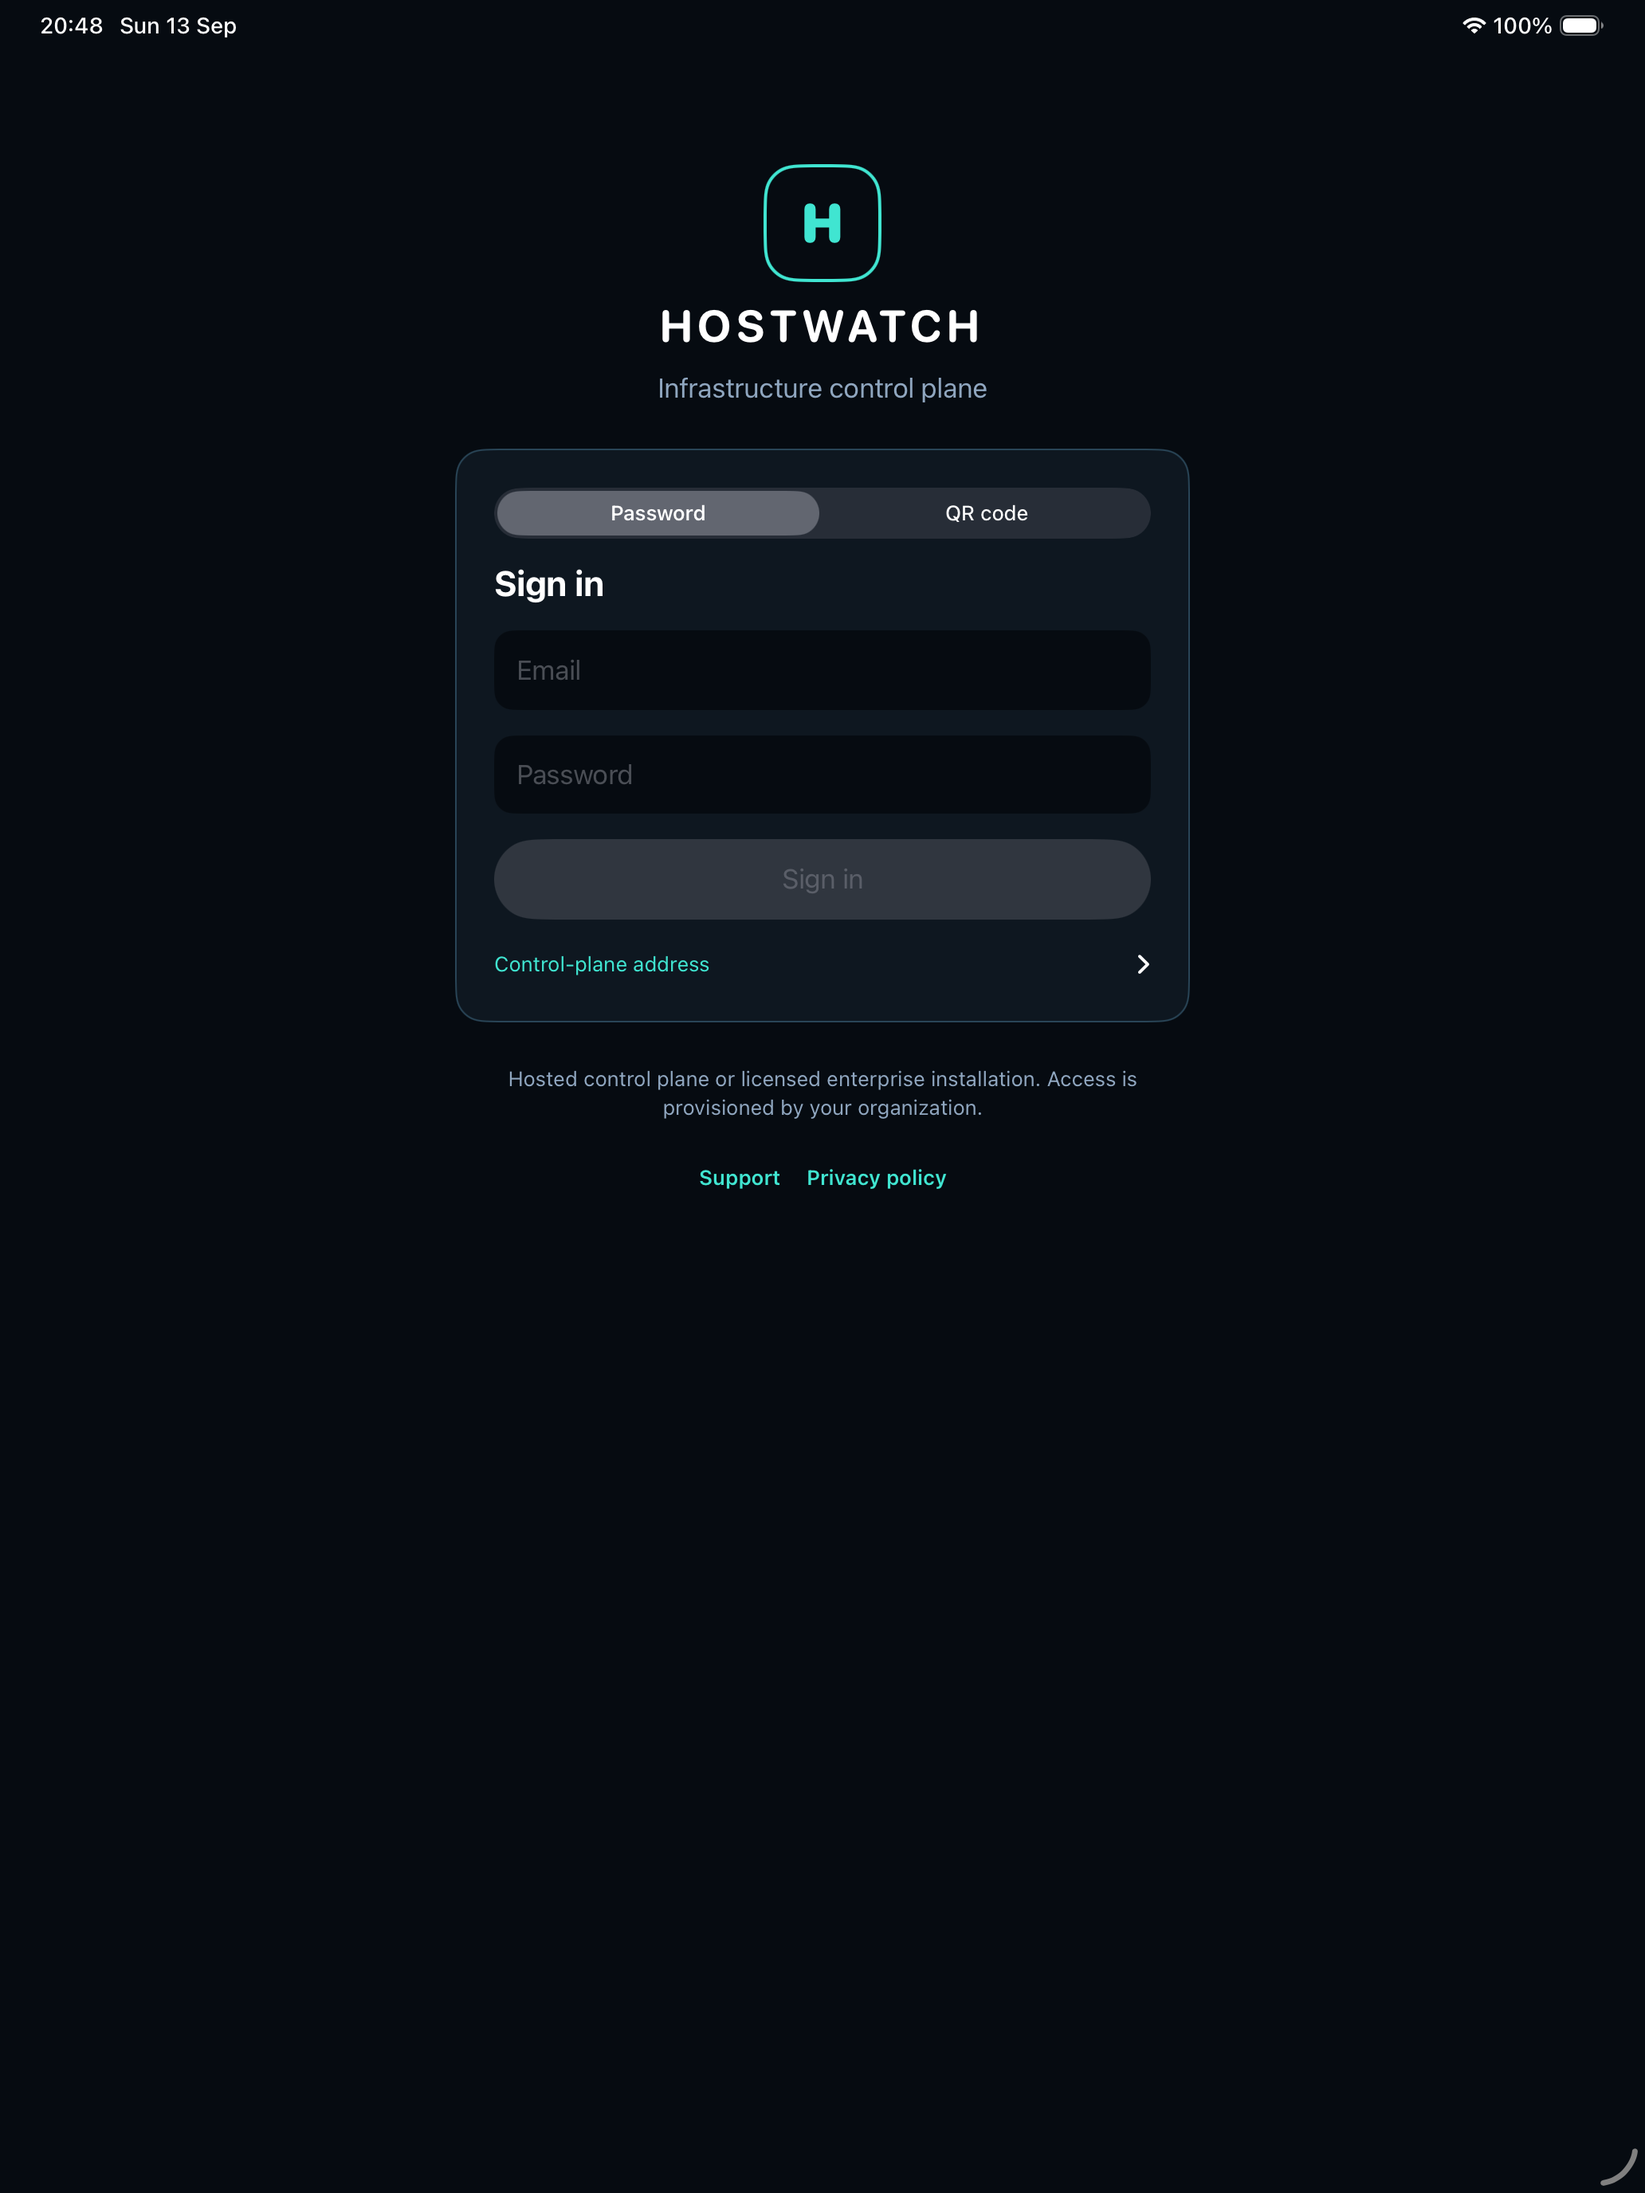
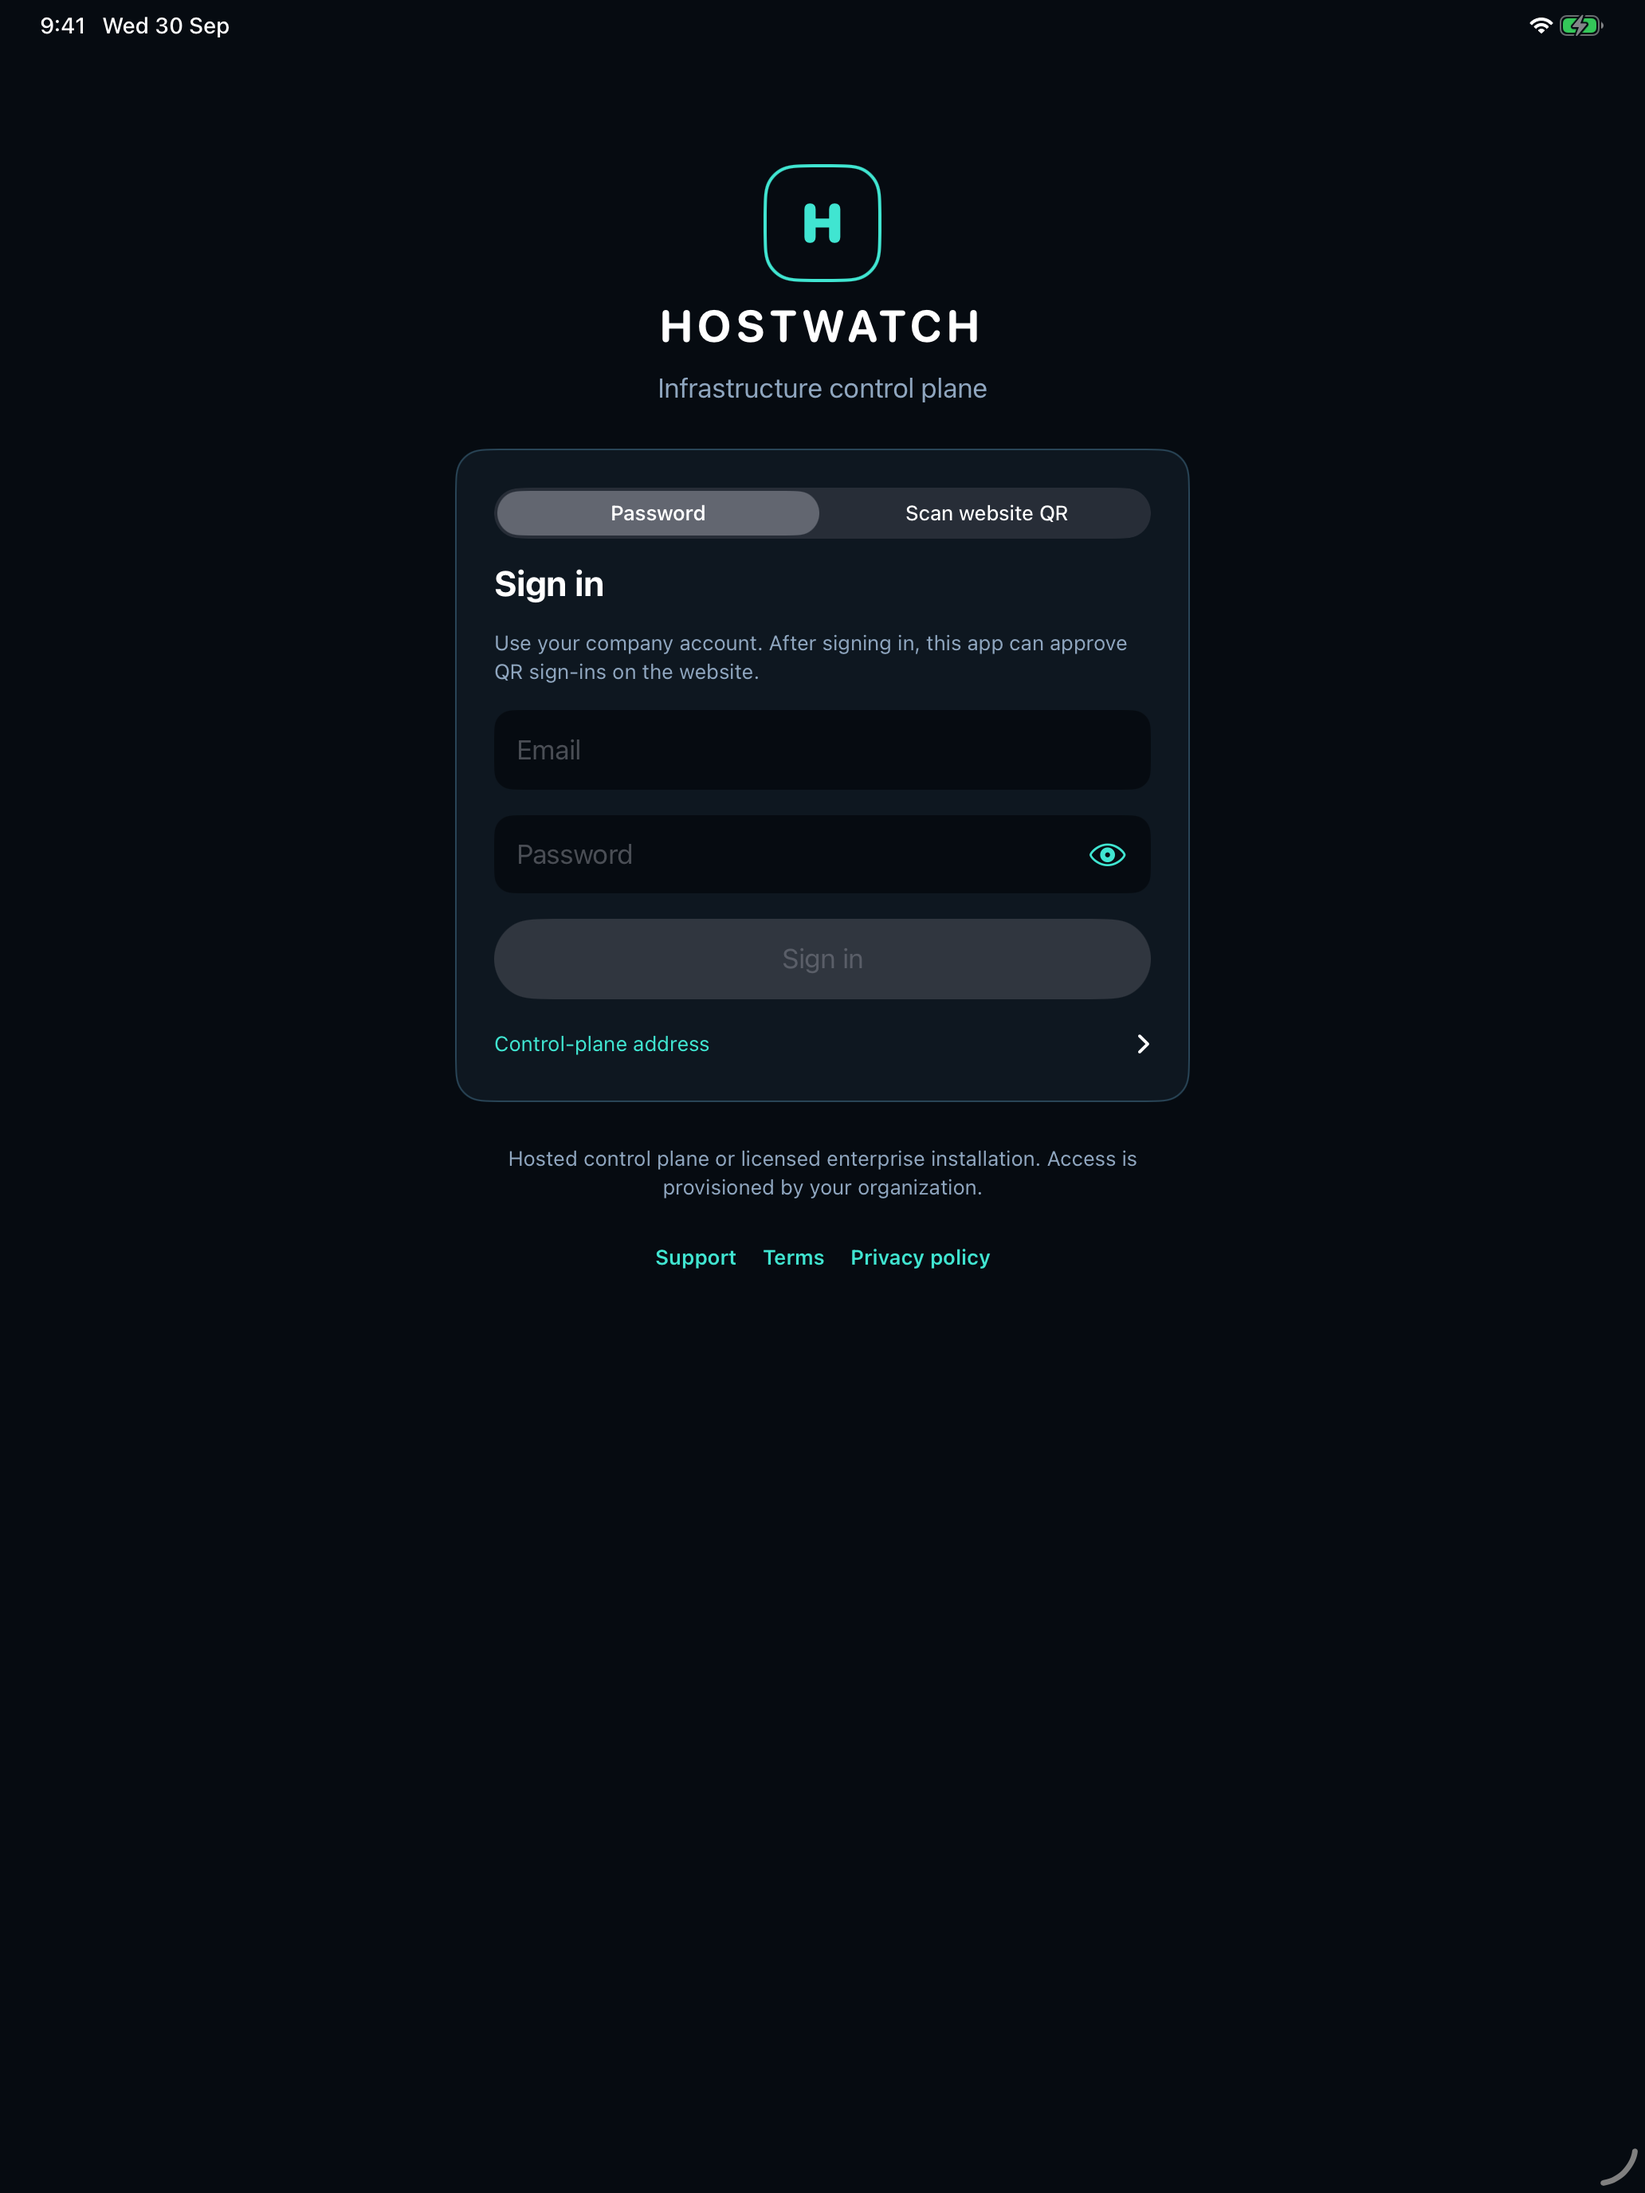
Declare Apple system crypto exemption for TestFlight

diff --git a/README.md b/README.md
@@ -2,13 +2,13 @@
 
 Native SwiftUI control-plane client for Hostwatch. The iPhone and iPad app is intended for **public App Store distribution**, while access to a control plane is provisioned by an organization. It uses the same signed-in session and REST API as the web application. There is no public demo or registration flow.
 
-**Version 1.0.7 (11):** fixes Overview loading when a site has no containers and makes incompatible API fields identifiable in error messages. It also includes the native SSL / TLS view for local certificate files, origin and public HTTPS, Certbot schedule status, and owner-only renewal checks. The node performs renewal; no certificate private key is sent to the app. See [submission materials and release checklist](docs/APP_STORE.md) for the current TestFlight and App Store status.
+**Version 1.0.7 (12):** fixes Overview loading when a site has no containers and makes incompatible API fields identifiable in error messages. It also includes the native SSL / TLS view for local certificate files, origin and public HTTPS, Certbot schedule status, and owner-only renewal checks. The node performs renewal; no certificate private key is sent to the app. See [submission materials and release checklist](docs/APP_STORE.md) for the current TestFlight and App Store status.
 
 ## Install and first setup
 
 The iOS beta is distributed by TestFlight invitation. Request access from your organization administrator or [Hostwatch support](mailto:serhii.ziborov@gmail.com?subject=Hostwatch%20iOS%20TestFlight). There is no public download link yet.
 
-1. Install Apple's TestFlight app on the iPhone or iPad, open the invitation sent to your Apple Account, then accept and install Hostwatch.
+1. On an iPhone or iPad running iOS/iPadOS 16 or later, install [Apple's TestFlight app](https://apps.apple.com/app/testflight/id899247664), open the invitation sent to your Apple Account, then accept and install Hostwatch.
 2. On the Hostwatch sign-in screen, leave the hosted address in place or expand **Control-plane address** and enter the HTTPS address supplied by your administrator.
 3. Sign in with your organization email and password, followed by an authenticator code if requested. Alternatively, choose **Scan website QR** and scan the device sign-in code from an already authenticated website session under **Organization → Account security → Sign in on iPhone or iPad**.
 4. Select a node on **Overview** and pull down to refresh. Traffic, Database and Runtime use the selected node and your account permissions.
@@ -41,7 +41,7 @@ The app supports the hosted control plane and licensed enterprise installations.
 
 On iPhone or iPad, sign in by scanning the one-time QR shown in **Organization → Account security → Sign in on iPhone or iPad** on an already signed-in Hostwatch website. Compare the six-digit number on both screens and approve on the website. The QR expires after two minutes and can only sign in the device that claimed it. QR links use the registered `hostwatch://` scheme to open the installed app from the system camera; the app validates the control-plane origin. Release signing also declares the hosted universal-link domain. Password and authenticator-code sign-in remain available. **More → Account security** lets an account enroll, replace, or disable its authenticator and approve another device's website sign-in with the camera or a short manual pairing code. That approval asks for Face ID or the device passcode.
 
-The minimum deployment target is iOS 15, so the same build runs on current iPhones and older iPads such as iPad mini 4 (15.8). The four primary areas are Overview, Traffic, Database and Runtime; only the selected tab stays mounted. Workloads and less frequent controls are under **More**. iPad keeps a sidebar. Links to a request destination or external advisory open in the system browser, outside the app. Live refresh loads only the visible page: topology pulses host/site snapshots every 3s and the heavier inventory every 30s; other pages refresh every 8s without re-downloading request/error buffers.
+The app's minimum deployment target is iOS 15, but Apple's TestFlight app currently requires iOS/iPadOS 16 or later. The four primary areas are Overview, Traffic, Database and Runtime; only the selected tab stays mounted. Workloads and less frequent controls are under **More**. iPad keeps a sidebar. Links to a request destination or external advisory open in the system browser, outside the app. Live refresh loads only the visible page: topology pulses host/site snapshots every 3s and the heavier inventory every 30s; other pages refresh every 8s without re-downloading request/error buffers.
 
 On launch, a native Hostwatch splash stays visible while the saved server session is checked. After the first successful sign-in the session cookies are stored in the device keychain so they survive app death; **Face ID / Touch ID / passcode** (on by default when the device can evaluate it) unlocks that session on the next launch and after the app goes to the background. The eight-hour access cookie is automatically renewed with a rotating device credential valid for up to 90 days of inactivity. The controller stores only its hash; Keychain holds the actual credential. Password or two-factor changes revoke the saved authorization. Signing out removes and revokes the saved session. This is an on-device unlock for a stored control-plane session, not a substitute for account two-factor policy. Disk scans show progress and errors, and directory drilldown preserves the host summary while loading child entries.
 
@@ -77,9 +77,9 @@ For App Store review and users, see the [privacy policy](PRIVACY.md) and [suppor
 
 ## Screenshots
 
-<img src="docs/screenshots/iphone-sign-in.png" width="275" alt="Hostwatch 1.0.7 sign-in with Password and Scan website QR options" /> <img src="docs/screenshots/iphone-overview-sample.png" width="275" alt="Hostwatch 1.0.7 Overview with an explicit SAMPLE DATA banner" />
+<img src="docs/screenshots/iphone-sign-in.png" width="275" alt="Hostwatch 1.0.7 sign-in with Password and Scan website QR options" /> <img src="docs/screenshots/iphone-overview-sample.png" width="275" alt="Hostwatch 1.0.7 Overview with an explicit SAMPLE DATA banner" /> <img src="docs/screenshots/ipad-sign-in.png" width="390" alt="Hostwatch 1.0.7 sign-in on iPad" />
 
-Simulator captures of version 1.0.7 (11). The Overview image contains fabricated development fixtures and visibly says **SAMPLE DATA · DEBUG BUILD**. The sign-in image contains no credentials.
+Simulator captures of the version 1.0.7 code. The Overview image contains fabricated development fixtures and visibly says **SAMPLE DATA · DEBUG BUILD**. The sign-in images contain no credentials.
 
 Only captures from an authenticated shipping build should be uploaded to App Store Connect. Development fixture images under `docs/screenshots/` explicitly show SAMPLE DATA and are not current server telemetry or Store assets. See [capture checklist](docs/APP_STORE.md#screenshots); the listing must include both supported device families.
 

diff --git a/docs/APP_STORE.md b/docs/APP_STORE.md
@@ -1,4 +1,4 @@
-# App Store submission — Hostwatch 1.0.7 (11)
+# App Store submission — Hostwatch 1.0.7 (12)
 
 Updated 2026-09-30. These are submission materials, not a claim that Apple approved or published the app.
 
@@ -42,7 +42,7 @@ Organization owners provision accounts. The app has no public sign-up or third-p
 
 The bundled `PrivacyInfo.xcprivacy` declares the UserDefaults reason CA92.1 and account/operational data used for app functionality, linked to the organization account, without tracking. Reconcile the final App Store privacy questionnaire with the live control plane, including user-entered content, log data and network addresses. No location permission is requested; approximate visitor geography belongs to server telemetry. Camera permission is only for QR scanning. Face ID is evaluated by LocalAuthentication; biometric templates never reach Hostwatch.
 
-Confirm export-compliance answers against the actual use of system HTTPS and Keychain before uploading; do not invent an encryption exemption declaration. The app's source-available commercial LICENSE is separate from Apple's user EULA.
+The iOS source uses Apple's URLSession for HTTPS, Security framework Keychain, and CryptoKit AES-GCM to create encrypted environment-share links. It contains no third-party or proprietary cryptography. Apple's [export compliance reference](https://developer.apple.com/help/app-store-connect/reference/export-compliance-documentation-for-encryption/) says encryption limited to Apple's operating system requires no documentation in App Store Connect. Build 12 sets `ITSAppUsesNonExemptEncryption` to `false` in Info.plist on that basis. Recheck this declaration if cryptography changes. The app's source-available commercial LICENSE is separate from Apple's user EULA.
 
 ## Screenshots
 
@@ -53,13 +53,13 @@ Suggested captures: Overview with time axis, Traffic and request destination, Er
 ## Release gates
 
 - [x] Native SwiftUI client, camera/Face ID usage descriptions and app icon.
-- [x] Version 1.0.7 (11), shared archive scheme, iPhone/iPad targets.
+- [x] Version 1.0.7 (12), shared archive scheme, iPhone/iPad targets.
 - [x] Custom QR URL scheme and associated-domain entitlement in release source.
 - [x] Privacy manifest and accessible Privacy/Terms/Support links.
 - [x] Parser/session API test coverage; the 40-test native suite passed with one optional live sign-in test skipped for the previous candidate. The new empty-site decoding test and simulator build passed for this candidate. A full rerun was stopped after simulator launch failures.
 - [ ] Physical QR scan, biometric unlock and eight-hour-expiry renewal on the candidate.
-- [ ] Distribution provisioning with Associated Domains; validated Release archive.
-- [ ] Xcode Cloud build and TestFlight distribution verified for this commit.
+- [x] Distribution provisioning with Associated Domains; build 11 signed and validated by Apple after stable Xcode 26.6 archive. Build 12 must be validated after adding the export-compliance flag.
+- [ ] Build 12 uploaded and available to the internal TestFlight group.
 - [ ] Authenticated iPhone/iPad screenshots and dedicated reviewer account.
 - [ ] Store privacy, age rating and export-compliance forms completed and verified.
 - [ ] App Review submission and approval; public release remains manual.

diff --git a/SUPPORT.md b/SUPPORT.md
@@ -1,5 +1,7 @@
 # Hostwatch Support
 
+Installation, control-plane address setup, QR pairing and empty Overview troubleshooting: [iPhone and iPad setup guide](https://gethostwatch.com/support#ios-setup). TestFlight currently requires iOS or iPadOS 16 or later.
+
 For sign-in, server access, account removal, operational errors or licensing contact serhii.ziborov@gmail.com or your organization administrator. Include the app version, control-plane address and the time of the issue. Never include passwords, API keys or unredacted secrets in a public issue.
 
 Website sign-in: choose “Use signed-in iPhone”, scan with Hostwatch or the iOS Camera, compare the number and approve in the app. First app sign-in: use email/password, or scan a device sign-in QR from an already authenticated website session. Face ID unlocks saved credentials; an administrator’s password reset or revoked account still requires sign-in.
